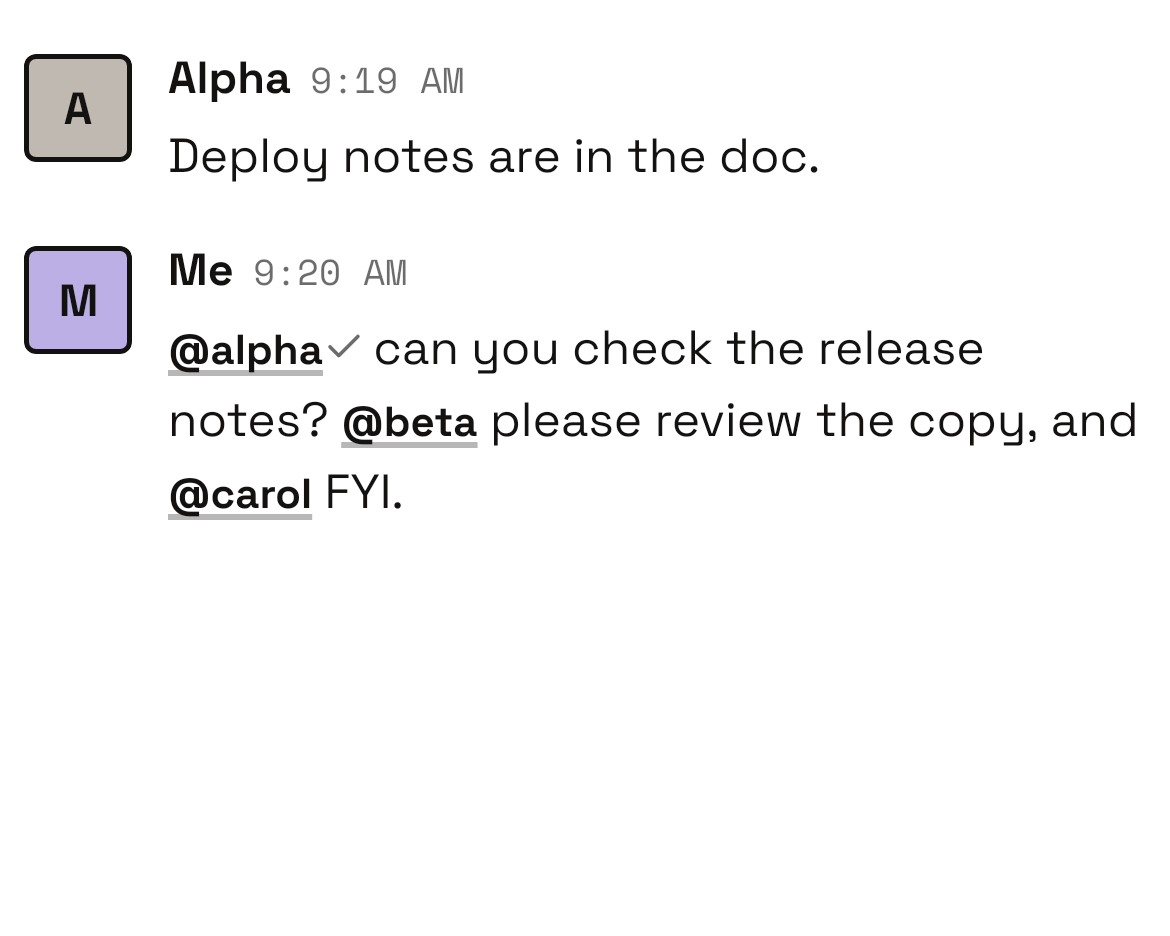
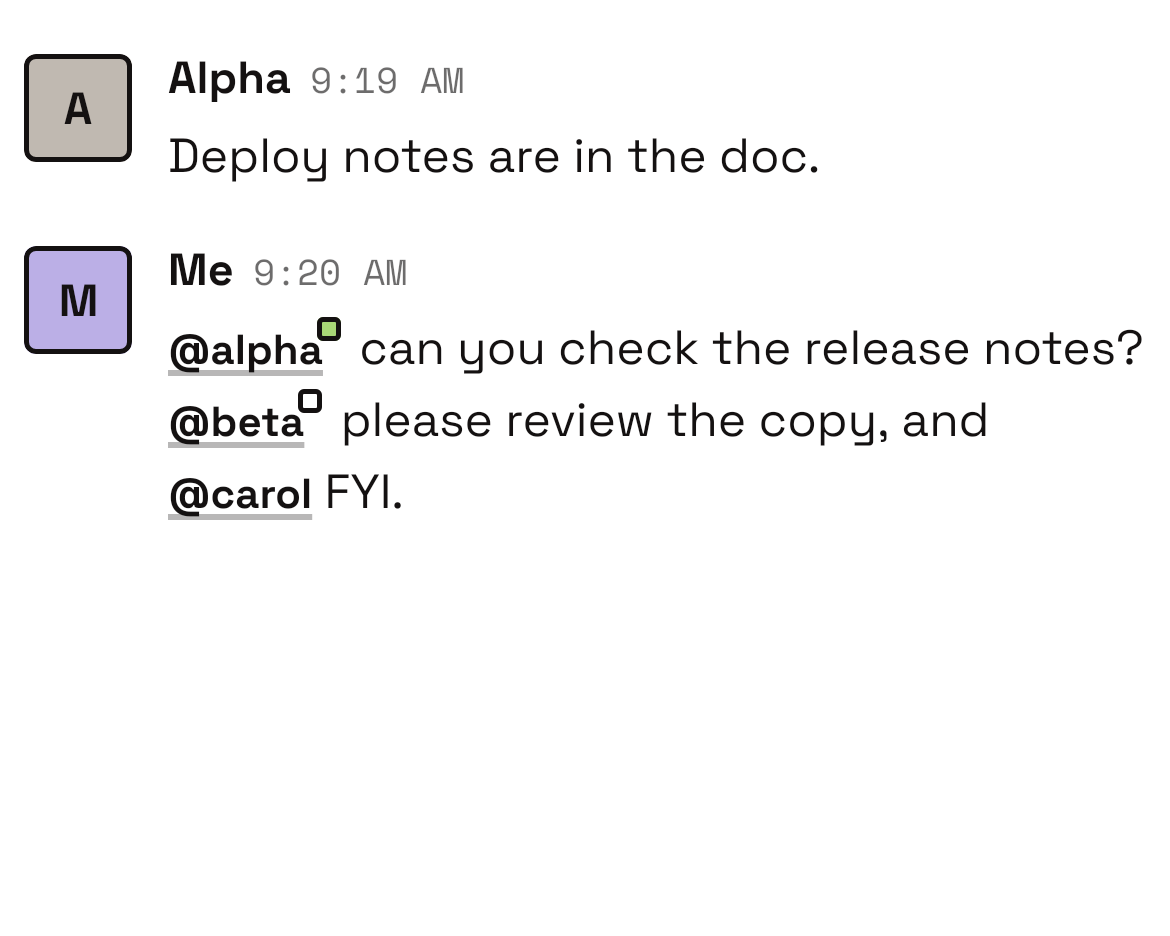
revert(thread): read mention marker back to the boxed mark (reverts #3554)
artin asked to go back to the previous boxed read mark until
#proj-raft-ui settles a design; #3554 replaced it with a bare check.

This reverts commit 6c74574d7.

Changed region(s): [[0.2462, 0.3408, 0.9846, 0.4028], [0.1231, 0.4028, 0.9846, 0.4957]]

diff --git a/compose/shared/src/commonMain/kotlin/build/raft/app/markdown/RaftMarkdownMentionReadBadge.kt b/compose/shared/src/commonMain/kotlin/build/raft/app/markdown/RaftMarkdownMentionReadBadge.kt
@@ -1,15 +1,25 @@
 package build.raft.app.markdown
 
+import androidx.compose.foundation.layout.Box
+import androidx.compose.foundation.layout.fillMaxSize
+import androidx.compose.foundation.layout.offset
 import androidx.compose.foundation.text.InlineTextContent
+import androidx.compose.foundation.text.appendInlineContent
 import androidx.compose.runtime.Composable
 import androidx.compose.runtime.CompositionLocalProvider
 import androidx.compose.runtime.Stable
 import androidx.compose.runtime.compositionLocalOf
+import androidx.compose.ui.Alignment
+import androidx.compose.ui.Modifier
 import androidx.compose.ui.text.AnnotatedString
+import androidx.compose.ui.text.Placeholder
+import androidx.compose.ui.text.PlaceholderVerticalAlign
+import androidx.compose.ui.unit.dp
+import androidx.compose.ui.unit.sp
 import build.raft.app.resources.MR
-import build.raft.designsystem.components.appendRaftMessageReferenceReadMark
-import build.raft.designsystem.components.raftMessageReferenceReadMarkInlineContent
-import build.raft.designsystem.components.raftMessageReferenceSilentReadStateInlineContent
+import build.raft.designsystem.components.RaftStatusDot
+import build.raft.designsystem.components.RaftStatusSize
+import build.raft.designsystem.tokens.RaftUiPalette
 import com.tencent.tmm.kmmresource.compose.stringResource
 
 /**
@@ -40,29 +50,56 @@ private const val MentionReadInlineId = "raft-mention-read:read"
 private const val MentionUnreadInlineId = "raft-mention-read:unread"
 
 /**
- * Appends the read state right after a mention, kept on the mention's line by a word joiner:
- * raft-ui `MessageReferenceReadMark` (raft-design #715), a muted check once the agent has read the
- * message; nothing visible until then, only the words a screen reader says ("Not read yet").
+ * Web `mr-2`: the badge's own width is reserved after the mention so the next word never collides
+ * with it; the badge (`-right-1.5 top-0`) then hangs 2dp back over the mention's top-right corner.
  */
+private val MentionReadBadgeReserve = 8.dp
+private val MentionReadBadgeOverlap = (-2).dp
+
+/** Appends the badge placeholder right after a mention, kept on the mention's line by a word joiner. */
 internal fun AnnotatedString.Builder.appendRaftMarkdownMentionReadBadge(read: Boolean) {
     append(RaftMarkdownTaskChipWordJoiner)
-    appendRaftMessageReferenceReadMark(if (read) MentionReadInlineId else MentionUnreadInlineId)
+    appendInlineContent(if (read) MentionReadInlineId else MentionUnreadInlineId, "")
 }
 
-/** The check (read) and the silent, zero-width state (not read yet). */
+/** Both badge placeholders; the colours are mode-invariant (lime / sticker paper, ink edge). */
 internal val RaftMarkdownMentionReadInlineContent: Map<String, InlineTextContent> by lazy {
     mapOf(
-        MentionReadInlineId to
-            raftMessageReferenceReadMarkInlineContent { mentionReadLabel(read = true) },
-        MentionUnreadInlineId to
-            raftMessageReferenceSilentReadStateInlineContent { mentionReadLabel(read = false) },
+        MentionReadInlineId to mentionReadBadgeInlineContent(read = true),
+        MentionUnreadInlineId to mentionReadBadgeInlineContent(read = false),
     )
 }
 
-/** "Read" / "Not read yet", as the web mention's hover card says it. */
+private fun mentionReadBadgeInlineContent(read: Boolean): InlineTextContent =
+    InlineTextContent(
+        placeholder =
+            Placeholder(
+                width = MentionReadBadgeReserve.value.sp,
+                height = RaftStatusSize.Sm.edge.value.sp,
+                placeholderVerticalAlign = PlaceholderVerticalAlign.TextTop,
+            ),
+    ) {
+        RaftMarkdownMentionReadBadge(read)
+    }
+
+/**
+ * raft-ui status pixel `sm` (8dp, 2dp corners, ink edge): lime once the agent has read the message,
+ * a white sticker until then (web `bg-success` / `bg-sticker-paper`). Labelled "Read" / "Not read
+ * yet" like the web tooltip.
+ */
 @Composable
-private fun mentionReadLabel(read: Boolean): String =
-    stringResource(if (read) MR.strings.thread_mention_agent_read else MR.strings.thread_mention_agent_unread)
+internal fun RaftMarkdownMentionReadBadge(read: Boolean) {
+    val label =
+        stringResource(if (read) MR.strings.thread_mention_agent_read else MR.strings.thread_mention_agent_unread)
+    Box(Modifier.fillMaxSize(), contentAlignment = Alignment.TopStart) {
+        RaftStatusDot(
+            modifier = Modifier.offset(x = MentionReadBadgeOverlap),
+            size = RaftStatusSize.Sm,
+            color = if (read) RaftUiPalette.success else RaftUiPalette.stickerPaper,
+            contentDescription = label,
+        )
+    }
+}
 
 /**
  * Memo revision entries for the badges of one document: the vendor AnnotatedString memo must

diff --git a/compose/designsystem/src/desktopTest/kotlin/build/raft/designsystem/screenshot/DisplayComponentScreenshotTest.kt b/compose/designsystem/src/desktopTest/kotlin/build/raft/designsystem/screenshot/DisplayComponentScreenshotTest.kt
@@ -26,10 +26,6 @@ import androidx.compose.ui.graphics.compositeOver
 import androidx.compose.ui.text.font.FontWeight
 import androidx.compose.ui.unit.Dp
 import androidx.compose.ui.unit.dp
-import androidx.compose.ui.unit.sp
-import androidx.compose.ui.text.withStyle
-import androidx.compose.ui.text.buildAnnotatedString
-import androidx.compose.ui.text.SpanStyle
 import build.raft.designsystem.components.LocalRaftFocusedPreview
 import build.raft.designsystem.components.LocalRaftHoveredPreview
 import build.raft.designsystem.components.LocalRaftPressedPreview
@@ -108,10 +104,6 @@ import build.raft.designsystem.components.RaftMessageImageFit
 import build.raft.designsystem.components.RaftMessageImageFrame
 import build.raft.designsystem.components.RaftMessageImageGallery
 import build.raft.designsystem.components.RaftUnreadCount
-import build.raft.designsystem.components.RaftMessageReferenceReadMark
-import build.raft.designsystem.components.appendRaftMessageReferenceReadMark
-import build.raft.designsystem.components.raftMessageReferenceReadMarkInlineContent
-import build.raft.designsystem.components.raftMessageReferenceSilentReadStateInlineContent
 import build.raft.designsystem.components.raftActiveStickerLook
 import build.raft.designsystem.components.raftInsetFocusOutline
 import build.raft.designsystem.components.raftPressOverlay
@@ -598,48 +590,6 @@ class DisplayComponentScreenshotTest {
                         RaftStatusDot(presence = presence)
                         RaftText(presence.word, style = RaftTheme.typography.footnote)
                     }
-                }
-            }
-        }
-
-    /**
-     * raft-ui MessageReferenceReadMark (raft-design #715): the check after a read mention, on
-     * the desktop body (14) and the phone body (16); an unread mention shows nothing. The last
-     * row puts the check in a row of its own beside 14dp text.
-     */
-    @Test
-    fun messageReferenceReadMark() =
-        capture("message_reference_read_mark") {
-            val inline =
-                mapOf(
-                    "read" to raftMessageReferenceReadMarkInlineContent { "Read" },
-                    "unread" to raftMessageReferenceSilentReadStateInlineContent { "Not read yet" },
-                )
-            val sentence =
-                buildAnnotatedString {
-                    append("Ask ")
-                    withStyle(SpanStyle(fontWeight = FontWeight.Bold)) { append("@Atlas") }
-                    appendRaftMessageReferenceReadMark("read")
-                    append(" or ")
-                    withStyle(SpanStyle(fontWeight = FontWeight.Bold)) { append("@Sage") }
-                    appendRaftMessageReferenceReadMark("unread")
-                    append(", then loop in ")
-                    withStyle(SpanStyle(fontWeight = FontWeight.Bold)) { append("@Noah") }
-                    appendRaftMessageReferenceReadMark("read")
-                    append(".")
-                }
-            Column(Modifier.width(360.dp), verticalArrangement = Arrangement.spacedBy(12.dp)) {
-                listOf(14 to 22, 16 to 24).forEach { (size, line) ->
-                    Caption("${size}/${line}")
-                    RaftText(
-                        sentence,
-                        style = RaftTheme.typography.body.copy(fontSize = size.sp, lineHeight = line.sp),
-                        inlineContent = inline,
-                    )
-                }
-                Row(verticalAlignment = Alignment.CenterVertically) {
-                    RaftText("@Atlas", style = RaftTheme.typography.callout.copy(fontWeight = FontWeight.Bold))
-                    RaftMessageReferenceReadMark(label = "Read")
                 }
             }
         }

diff --git a/compose/designsystem/src/desktopTest/kotlin/build/raft/designsystem/RaftDisplaySemanticsTest.kt b/compose/designsystem/src/desktopTest/kotlin/build/raft/designsystem/RaftDisplaySemanticsTest.kt
@@ -84,11 +84,6 @@ import build.raft.designsystem.theme.RaftTypography
 import build.raft.designsystem.tokens.RaftUiThemeColors
 import kotlin.test.Test
 import kotlin.test.assertEquals
-import build.raft.designsystem.text.RaftText
-import androidx.compose.ui.text.font.FontWeight
-import build.raft.designsystem.components.appendRaftMessageReferenceReadMark
-import build.raft.designsystem.components.raftMessageReferenceReadMarkInlineContent
-import build.raft.designsystem.components.raftMessageReferenceSilentReadStateInlineContent
 import kotlin.test.assertFalse
 import kotlin.test.assertNotNull
 import kotlin.test.assertTrue
@@ -753,39 +748,5 @@ class RaftDisplaySemanticsTest {
             assertEquals(160f, boundsOf("button").width / d, 0.5f)
             assertEquals(27f, boundsOf("avatar").width / d, 0.5f)
             assertEquals(31.5f, (boundsOf("button").right - textBounds(long).right) / d, 0.5f)
-        }
-
-    @Test
-    fun aMentionSaysWhetherItWasReadAndOnlyAReadOneShowsTheCheck() =
-        runComposeUiTest {
-            setContent(
-                themed {
-                    RaftText(
-                        buildAnnotatedString {
-                            withStyle(SpanStyle(fontWeight = FontWeight.Bold)) { append("@Atlas") }
-                            appendRaftMessageReferenceReadMark("read")
-                            append(" and ")
-                            withStyle(SpanStyle(fontWeight = FontWeight.Bold)) { append("@Sage") }
-                            appendRaftMessageReferenceReadMark("unread")
-                        },
-                        style = RaftTheme.typography.body,
-                        modifier = Modifier.testTag("sentence"),
-                        inlineContent =
-                            mapOf(
-                                "read" to raftMessageReferenceReadMarkInlineContent { "Read" },
-                                "unread" to
-                                    raftMessageReferenceSilentReadStateInlineContent { "Not read yet" },
-                            ),
-                    )
-                },
-            )
-            val d = density.density
-            val read = onNodeWithContentDescription("Read", useUnmergedTree = true).fetchSemanticsNode().boundsInRoot
-            val unread = onNodeWithContentDescription("Not read yet", useUnmergedTree = true).fetchSemanticsNode().boundsInRoot
-            // Body 16: the check's box is 0.857em tall, 0.786em wide (its end trimmed by 2/24), to the pixel.
-            assertEquals(16f * 0.857f, read.height / d, 1f)
-            assertEquals(16f * (0.857f - 0.857f * 2f / 24f), read.width / d, 1f)
-            // Unread draws nothing and takes no room on the line.
-            assertEquals(0f, unread.width, 0.01f)
         }
 }

diff --git a/compose/shared/src/androidUnitTest/kotlin/build/raft/app/ThreadReadReceiptsScreenshotTest.kt b/compose/shared/src/androidUnitTest/kotlin/build/raft/app/ThreadReadReceiptsScreenshotTest.kt
@@ -26,10 +26,9 @@ import org.robolectric.annotation.GraphicsMode
 
 /**
  * read_receipts_v0, light and dark, as the web draws them (slock staging dac70954, task #693):
- *  - channel: the viewer's own message @mentions two agents and a human; @Alpha has read it (raft-ui
- *    MessageReferenceReadMark, a muted check after the name, raft-design #715), @Beta not yet
- *    (nothing shown), @carol is a human (nothing). The agent's own reply carries nothing, and a
- *    channel never shows a "Read" line.
+ *  - channel: the viewer's own message @mentions two agents and a human; @Alpha has read it (lime
+ *    pixel on the mention's corner), @Beta not yet (white pixel), @carol is a human (no pixel). The
+ *    agent's own reply carries nothing, and a channel never shows a "Read" line.
  *  - DM with an agent: the viewer's last message, which the agent's watermark has reached, gets the
  *    right-aligned "Read" line under it; the earlier message does not repeat it.
  * Reports land in `build/reports/home-screenshots/`; verify / record as [RaftRobolectricScreenshot].

diff --git a/compose/designsystem/README.md b/compose/designsystem/README.md
@@ -210,7 +210,6 @@ Other checks:
 | `RaftMessageActionCard`, `RaftMessageActionCardHeaderDescription`, `RaftMessageActionCardNotice`, `RaftMessageActionCardProperties` / `RaftMessageActionCardProperty`, `RaftMessageActionCardHint`, `RaftMessageActionCardScopeList` / `RaftMessageActionCardScope`, `RaftMessageActionCardActions` | MessageActionCard (+ Header, HeaderIcon / Title / Description, Status, CollapseTrigger, Content, Notice, Properties, Hint, ScopeList, Actions) | Done | At most 440dp, `layer-card`, hairline edge, container radius. Header top-aligned: the icon in a 27dp `fill-muted` tile (`zap` by default), the title in subhead bold with an optional line under it (what happened, led by an ink check on a done card, or why the reader can't act; visible while folded), the status word led by its tone's 9dp pixel, the 27dp chevron toggle (only with `onExpandedChange`). The content folds (200ms); a folded card closes 12dp under its header. Notice: `fill-muted` block, never a warning colour. Properties switch on their own width (the card's content): label over value below 384dp (no value minimum or padding, 10dp between pairs), a 88..160dp label column from 384dp, so a card at its 440dp cap has two columns (`twoColumns` overrides). Hint: the agent's reason as a 2dp `line-seam` quote under its label. Permissions scroll past 164dp. Actions bottom-right, 8dp apart, wrapping, an optional note on their left; the confirm is a default (ink-outline) `RaftButton`, never pink |
 | `RaftAppRail`, `RaftAppRailItem` | AppRail (Root, Header, Nav, Item, ItemAttention, Footer; icons-only variant) | Done | The wide layout's leftmost column on `layer-frame`: 56dp plus a full-height `line-seam`; the optional header is a 56dp square (its seam lines up with list and page headers); 40dp items on the control radius, 6dp apart and 8dp from both ends, 20dp icons; selected = the sticker on the frame (`layer-frame-active`, 1.5dp `line-frame-active` edge, `sticker-edge` ring), press `fill-frame-medium`; attention = the 8dp `Status sm` pixel at the icon's corner, never on the selected item and never a count; 44dp touch target over the gaps |
 | `RaftMobileNavItem`, `RaftMobileNavServerPopover` (+ `RaftMobileNavServerPopoverState`), `RaftMobileNavServerPopoverItem`, `RaftMobileNavServerPopoverContent`, `RaftMobileNavServerPopoverList`, `RaftMobileNavServerPopoverGroup`, `RaftMobileNavServerPopoverRow`, `RaftMobileNavServerPopoverDestinations` / `RaftMobileNavServerPopoverDestination`, `RaftMobileNavServerPopoverSeparator` | MobileNav: MobileNavItem, MobileNavServerPopover, MobileNavServerItem, MobileNavServerPopoverContent / List / Group / Row / Destinations / Destination (wip, raft-design #712) | Done | `RaftMobileNavItem`: a phone-bar tab, 56x32 slot (9dp radius; selected = 2dp-ink brand sticker; attention dot (`Status sm`, 8dp) on the slot's corner, never on the selected tab; 11.5/14 label, bold when selected, fixed at any font scale). `RaftMobileNavServerPopoverItem`: the current-server tab, never selected: the server avatar at 22dp in the icon's place, its name truncated, the attention dot centred on the avatar's top-right corner (only "another server has unread"); `fill-pressed` on press, `fill-medium` while the popover is open. A press toggles the popover; a 500ms hold opens it (a move past 10dp cancels; a hold while open does nothing); letting a held press go over a popover row picks it (`raftMobileNavServerPopoverTarget`). One focusable button with a long-press action; `compact` is the wide rail's 48dp cell (27dp avatar). `RaftMobileNavServerPopover`: the layer, 8dp from each side and 8dp above the bar, at most 60% of the screen and below the top safe area; tap-outside and Back are the host's. `RaftMobileNavServerPopoverContent`: the popover surface (a dialog named by `paneTitle`): the list scrolls, the group and the destinations stay in view. Rows sit at the option height (`RaftOptionHeight`, the token `RaftMenuItem` uses; 36dp), a 20dp avatar or 16dp icon, the label, an optional muted mono second line (the `/slug`), a trailing check or count, bold when current; destinations are equal cells, a 20dp icon over a footnote label, with their own attention dot |
-| `RaftMessageReferenceReadMark`, `raftMessageReferenceReadMarkInlineContent`, `raftMessageReferenceSilentReadStateInlineContent`, `appendRaftMessageReferenceReadMark` | MessageReferenceReadMark (`wip`, raft-design #715) | Done | The read receipt on a mention of an agent: Lucide `check` after the name, 0.857em of the mention (12 beside 14, 13.7dp beside the 16sp phone body), `foreground-hint`, centred on the cap height (0.35em above the baseline), its end trimmed by 2/24 so no space of its own; the box fits inside the line. Unread shows nothing (a zero-width placeholder that only says "Not read yet" to screen readers). Not a status light. Screenshot `message_reference_read_mark_*` |
 | `RaftGlyphIcon` | — | Done | The few Lucide icons the components draw (sort: `arrow-up-down`, `arrow-down-up`; jump: `arrow-down`, `arrow-up`) |
 | `RaftText` | — | Done | Text primitive |
 | Tabs drag-reorder, file list row, avatar picker, task card / board lane, toast host | | Not done | Later PRs |
@@ -340,10 +339,6 @@ Checked with `git diff v0.7.1 v0.8.0` in raft-design:
 - **Disabled solid badge keeps its die-cut edge in dark.** badge.tsx (0.7.1 and 0.8.0) removes only
   the inset ink edge when disabled and keeps `ring-sticker-edge`; the Dark mode doc says
   a disabled button is no longer a sticker. The module follows the component source.
-- **Read receipt with no hover card.** raft-ui says "Read" / "Not read yet" in the mention's
-  hover card. A phone has no hover, and tapping a mention opens the agent's whole profile
-  page, not a card for that message, so the app says the state to screen readers on the
-  mention itself (the check's label, or a zero-width "Not read yet") and nowhere else yet.
 - **Hover only from a mouse.** Touch has no hover; pressed draws the web's hover look.
   Buttons and icon buttons also take it under a mouse or trackpad pointer. A
   `RaftTextLink` has no fill to lay an overlay on, so pressed takes its hover look (muted
